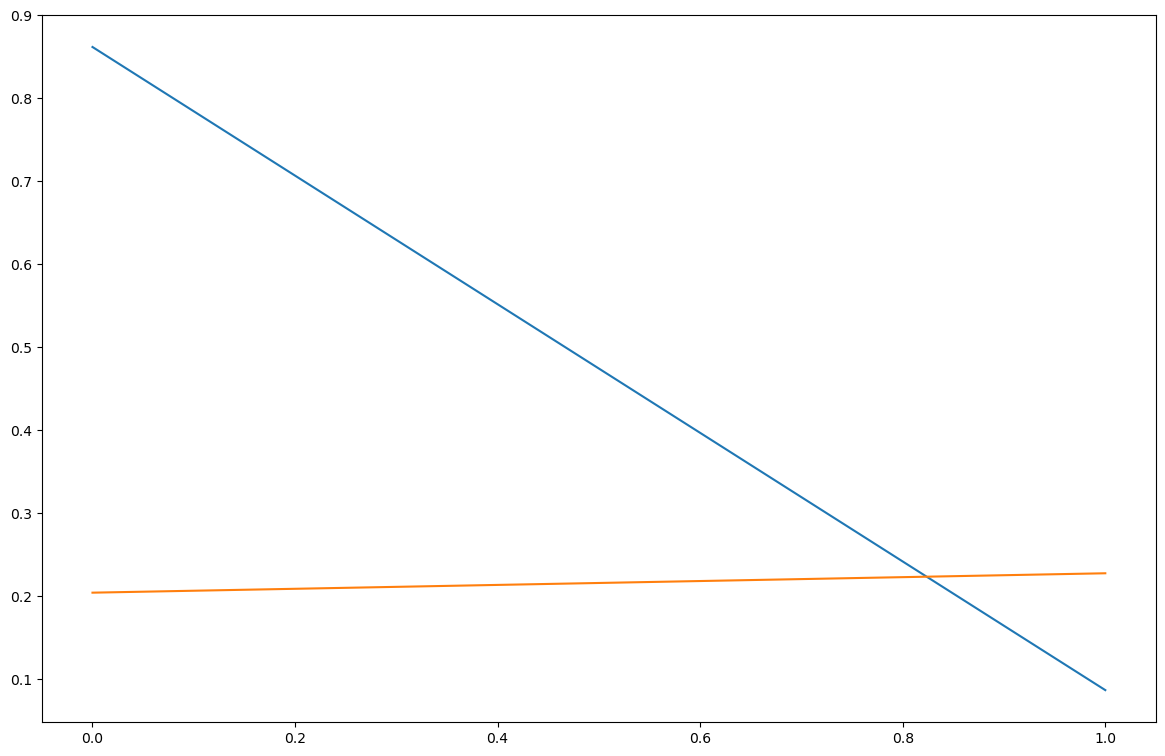
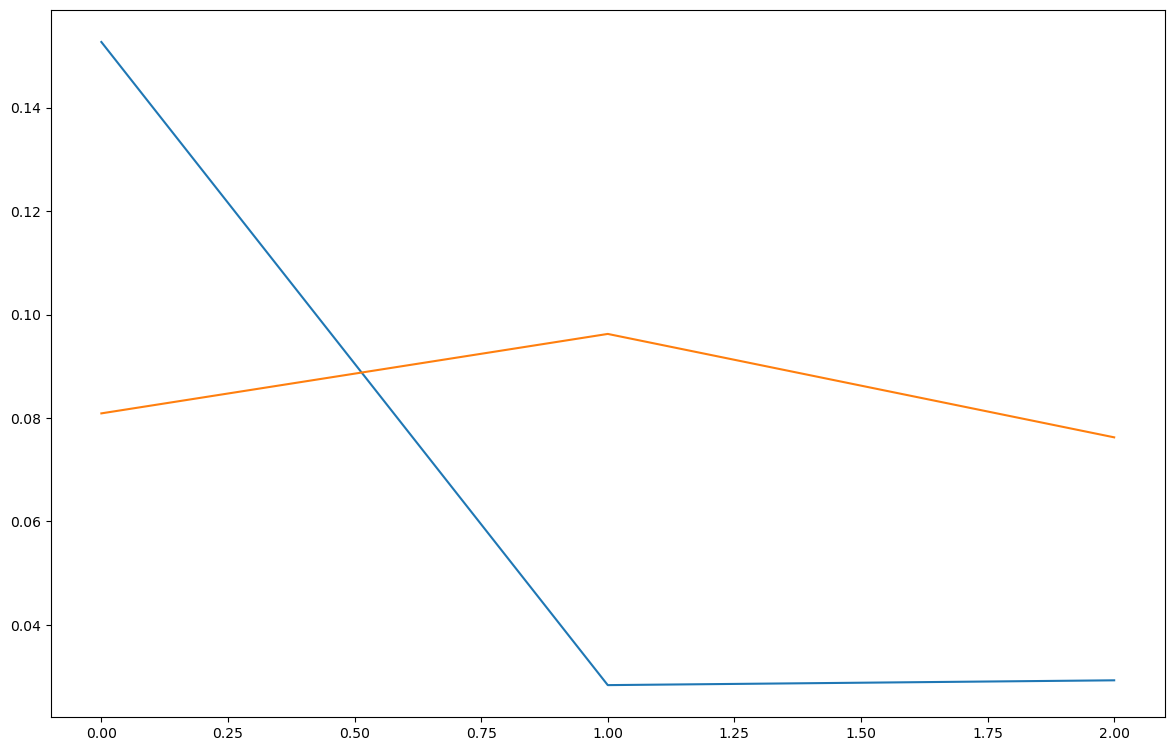
small fixes and improvements, now using cuda 11.3

diff --git a/parse-jsf.py b/parse-jsf.py
@@ -60,7 +60,7 @@ class SonarDataset(torch.utils.data.Dataset):
 
         self.imgs = [s for s in os.listdir(root) if s.endswith('.png')]
 
-        #self.imgs = self.imgs[0:int(len(self.imgs)*0.01)] # MAKE IT FAST FOR DEBUGGING TODO remove this urgently lol
+        #self.imgs = self.imgs[0:int(len(self.imgs)*0.1)] # MAKE IT FAST FOR DEBUGGING TODO remove this urgently lol
 
         csv_boxes = pd.read_csv(csv_file)
 
@@ -102,8 +102,6 @@ class SonarDataset(torch.utils.data.Dataset):
         if self.imgs[idx] in self.img2boxes:
             boxes = self.img2boxes[self.imgs[idx]]
 
-        num_objs = len(boxes)
-
         # convert everything into a torch.Tensor
         bboxes2 = []
         labels = []
@@ -126,6 +124,8 @@ class SonarDataset(torch.utils.data.Dataset):
         if self.transforms is not None:
             transformed = self.transforms(image=image, bboxes=bboxes2, class_labels=labels)
             img = transformed['image']
+            #visualize_bbox(img,[])
+            #sys.exit(0)
             target["boxes"] = []
             if len(transformed['bboxes']) > 0:
                 for bbox in transformed['bboxes']:
@@ -293,18 +293,16 @@ if __name__ == "__main__":
     #plt.show()
     plt.savefig('DatasetDistributions.png', bbox_inches='tight')
 
-    print("Sum annotated bodies:{}, anomalies:{}, debris:{}, bikes:{}".format(c_cnf_body,c_anomaly,c_debris,c_bikes))
-
-
     #The input to the model is expected to be a list of tensors,
     #each of shape [C, H, W], one for each image, and should be in 0-1 range.
     #Different images can have different sizes.
 
     sonar_transform = A.Compose([ #rotations, strecthing, different intensities probably safe
-        A.RandomCrop(width=1000, height=350), # TODO: figure out of this works, because the model isnt trained on this input
+        A.RandomCrop(width=400, height=400), # TODO: figure out of this works, because the model isnt trained on this input
         A.VerticalFlip(p=0.5),                             # if not just resize to support size
-        A.RandomBrightnessContrast(p=0.25),
-        A.RandomGamma(p=0.25),
+        A.RandomBrightnessContrast(p=0.3),
+        A.RandomGamma(p=0.3),
+        A.Equalize(p=1),
         #A.Normalize(mean=(0.485, 0.456, 0.406), std=(0.229, 0.224, 0.225), max_pixel_value=255.0), # trying without imagenet norm, since images are not natural
     ], bbox_params=A.BboxParams(format='pascal_voc',label_fields=['class_labels']))
 
@@ -313,8 +311,8 @@ if __name__ == "__main__":
     output_folder = "C:/Users/Moji podatki/Desktop/github/Msc_Obj_Det/data/vott/run3_big/output/vott-csv-export/"
     csv_file = output_folder+"06_02_2022_BIG-export.csv"
     train = output_folder+"train"
-    dev = output_folder+"dev"
-    test = output_folder+"test"
+    test = output_folder+"dev" # switched temporarily because /test has more files for evaluation
+    dev = output_folder+"test"
 
     train_dataset = SonarDataset(train,csv_file,sonar_transform)
     dev_dataset = SonarDataset(dev,csv_file,sonar_transform)
@@ -322,25 +320,27 @@ if __name__ == "__main__":
 
     #visualize(train_dataset[0][0])
     #[x1, y1, x2, y2] format, with 0 <= x1 < x2 <= W and 0 <= y1 < y2 <= H.
+    print("Sum annotated bodies:{}, anomalies:{}, debris:{}, bikes:{}".format(c_cnf_body, c_anomaly, c_debris, c_bikes))
     print(train_dataset[21][0].shape)
     print(train_dataset[21][0].is_cuda)
     print(train_dataset[21][1])
     print(train_dataset[21][1]["boxes"].shape)
     print("Number of images train:{}, dev:{}, test:{}".format(len(train_dataset),len(dev_dataset),len(test_dataset)))
+    print(device)
+    print(torch.version.cuda)
 
     torch.backends.cudnn.benchmark = True # speeds up training by some variable amount
     num_classes = 5  # debris + bike + anomaly + confirmed_victim + background
 
     # load a model pre-trained on COCO
-    model = torchvision.models.detection.fasterrcnn_resnet50_fpn(pretrained=True,pretrained_backbone=True)
+    model = torchvision.models.detection.fasterrcnn_resnet50_fpn(pretrained=True,pretrained_backbone=False)
+    # only pretrained on coco 2017, if pretrained_backbone = True, then it also uses a backbone pretrained on imagenet
 
     # get number of input features for the classifier
     in_features = model.roi_heads.box_predictor.cls_score.in_features
     # replace the pre-trained head with a new one
     model.roi_heads.box_predictor = FastRCNNPredictor(in_features, num_classes)
     model.to(device)
-    print(device)
-    print(torch.version.cuda)
     torch.cuda.empty_cache()
 
     def train_one_epoch(model, optimizer, data_loader, device, epoch, scaler=None, print_every = 50):
@@ -375,7 +375,7 @@ if __name__ == "__main__":
             avg_loss_value = avg_loss_value + loss_value
             if debug_counter != 0 and debug_counter % print_every == 0:
                 print_loss_value = avg_loss_value / debug_counter
-                #print("Training progress {}/{}, cumulative avg loss: {}".format(epoch, debug_counter,len(data_loader),print_every,print_loss_value))
+                print("Training progress {}/{}, cumulative avg loss: {}".format(debug_counter,len(data_loader),print_loss_value))
 
             optimizer.zero_grad()
             if scaler is not None:
@@ -428,7 +428,7 @@ if __name__ == "__main__":
     train_loss_list = []
     val_loss_list = []
     for epoch in range(num_epochs):
-        train_loss = train_one_epoch(model, optimizer, train_dataloader, device, epoch,print_every=100)
+        train_loss = train_one_epoch(model, optimizer, train_dataloader, device, epoch,print_every=300)
         # update the learning rate
         lr_scheduler.step()
         # evaluate on the test dataset

diff --git a/engine.py b/engine.py
@@ -170,44 +170,43 @@ def evaluate(model, data_loader, device):
             if len(proposed_detections["scores"]) < MAX_DET: # if it made less predictions than our max, use how many it made
                 MAX_DET = len(proposed_detections["scores"])
             for index in range(MAX_DET):
-                score = proposed_detections["scores"][index]
-                print(score)
                 box = proposed_detections["boxes"][index]
                 label = proposed_detections["labels"][index]
-
                 for gt_target in targets:
-                    if image_id != gt_target["image_id"]: continue
-                    for gt_index in range(len(gt_target["boxes"])):
-                        gt_box = gt_target["boxes"][gt_index]
-                        gt_label = gt_target["labels"][gt_index]
-                        bb_gt = {
-                            'x1': gt_box[0],
-                            'x2': gt_box[2],
-                            'y1': gt_box[1],
-                            'y2': gt_box[3]
-                        }
-                        bb_pred = {
-                            'x1': box[0],
-                            'x2': box[2],
-                            'y1': box[1],
-                            'y2': box[3]
-                        }
-                        iou_val = get_iou(bb_gt,bb_pred)
-                        print("---------------------")
-                        print(image_id)
-                        print(iou_val)
-                        print(bb_gt)
-                        print(bb_pred)
-                        print("---------------------")
-                        if iou_val > IOU_TRESHOLD:
-                            if label == gt_label:
-                                true_positives += 1
-                            if label != gt_label:
-                                missclassifications += 1
-                        elif iou_val != 0:
-                            false_positives += 1
-                        else:
-                            false_negatives += 1
+                    #print("Proposal on IMG:{}, GT IMG: {}".format(image_id,gt_target["image_id"].item()))
+                    if image_id == gt_target["image_id"].item():
+                        for gt_index in range(len(gt_target["boxes"])):
+                            gt_box = gt_target["boxes"][gt_index]
+                            gt_label = gt_target["labels"][gt_index]
+                            bb_gt = {
+                                'x1': gt_box[0],
+                                'x2': gt_box[2],
+                                'y1': gt_box[1],
+                                'y2': gt_box[3]
+                            }
+                            bb_pred = {
+                                'x1': box[0],
+                                'x2': box[2],
+                                'y1': box[1],
+                                'y2': box[3]
+                            }
+                            iou_val = get_iou(bb_gt,bb_pred)
+                            print("---------------------")
+                            print("Image ID: {}".format(image_id))
+                            print("predicted label {} this is gt label {}".format(label,gt_label))
+                            print("IOU value {}, gt box below, below that is pred box".format(iou_val))
+                            print(bb_gt)
+                            print(bb_pred)
+                            print("---------------------")
+                            if iou_val > IOU_TRESHOLD:
+                                if label == gt_label:
+                                    true_positives += 1
+                                if label != gt_label:
+                                    missclassifications += 1
+                            elif iou_val != 0:
+                                false_positives += 1
+                            else:
+                                false_negatives += 1
 
         evaluator_time = time.time()
         coco_evaluator.update(res)
